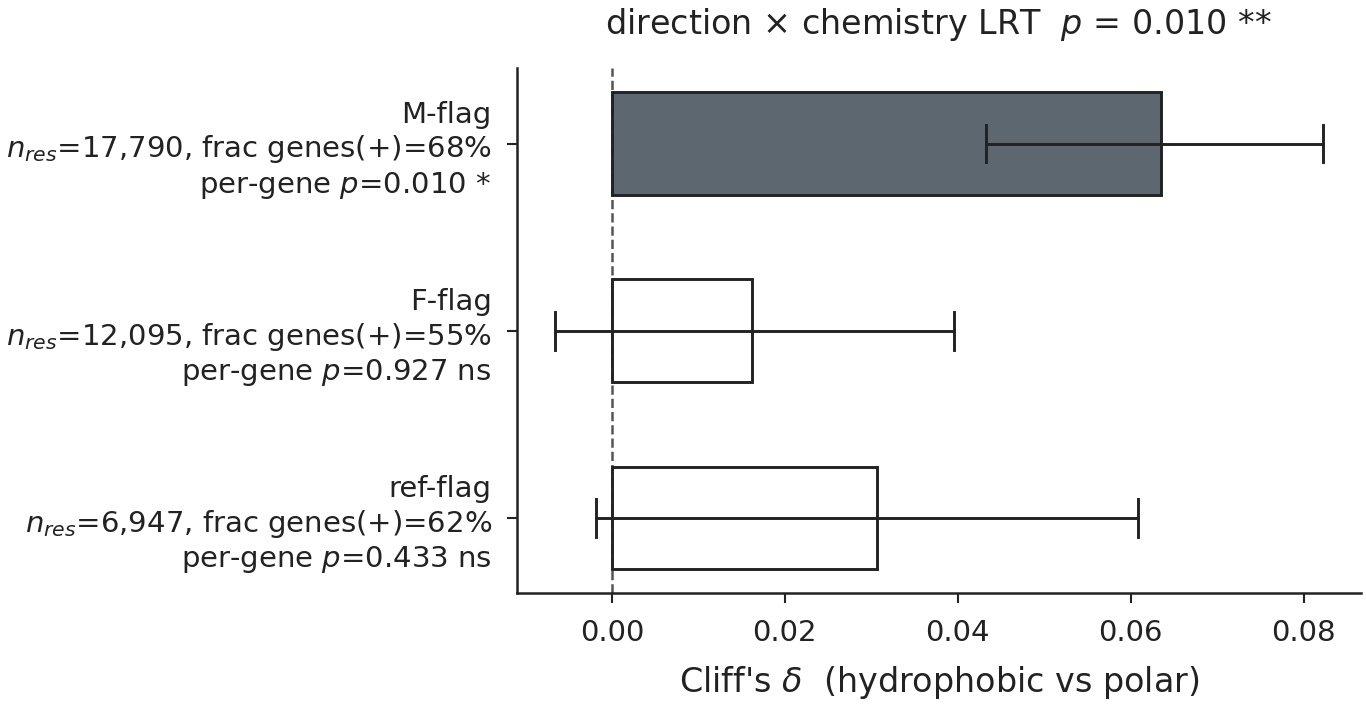
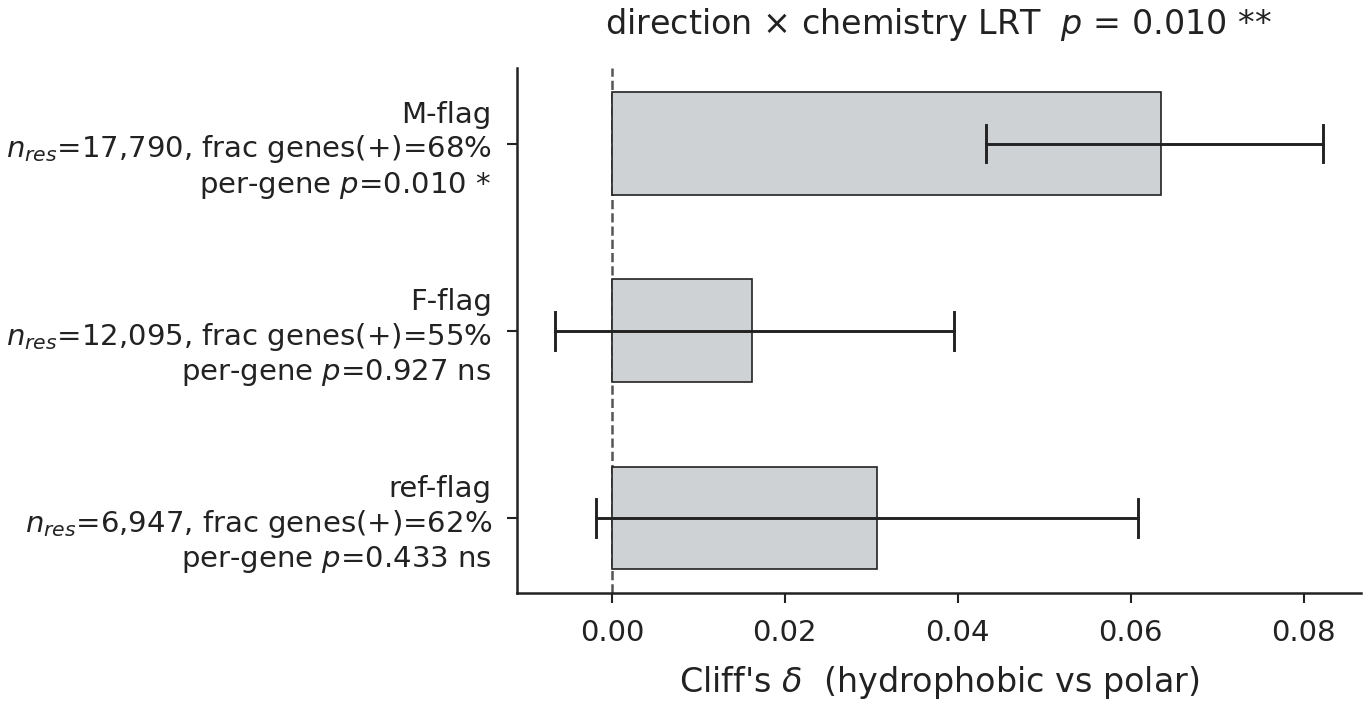
Figures Updated

Changed region(s): [[0.4305, 0.1246, 0.8609, 0.2805], [0.4305, 0.6544, 0.6457, 0.8102], [0.4305, 0.3739, 0.5534, 0.5609]]

diff --git a/notebooks/_summary_figures.py b/notebooks/_summary_figures.py
@@ -1002,9 +1002,10 @@ def render_D1_direction_chemistry(
 ) -> pd.DataFrame:
     """Cliff δ per direction class for hydrophobic vs polar + LRT annotation.
 
-    Three rows: M / F / ref.  Solid INK when per-gene paired Wilcoxon
-    survives at p < 0.05; hollow (white) otherwise.  Direction shading
-    is encoded by the y-axis position, not by color.
+    Three rows: M / F / ref.  Bars share a single lightgray fill — the
+    significance flag (per-gene paired Wilcoxon $p<0.05$) lives entirely
+    in the y-tick label text and the row's stars, so the figure reads
+    strictly monochrome and matches D3's box fill exactly.
     """
     db = direction_breakdown.copy()
     db["dir_idx"] = db["direction"].map({"M": 0, "F": 1, "ref": 2})
@@ -1012,10 +1013,8 @@ def render_D1_direction_chemistry(
 
     fig, ax = plt.subplots(figsize=(4.6, 2.4), constrained_layout=True)
     y = np.arange(len(db))
-    sig = (db["per_gene_p"] < 0.05).fillna(False)
-    fcs = [FILL if s else "white" for s in sig]
-    ax.barh(y, db["cliffs_d"].values, color=fcs, edgecolor=INK,
-            linewidth=0.7, height=0.55, zorder=2)
+    ax.barh(y, db["cliffs_d"].values, color=LITE, edgecolor=INK,
+            linewidth=0.4, height=0.55, zorder=2)
     for i, (lo, hi) in enumerate(zip(db["ci_lo"], db["ci_hi"])):
         if np.isfinite(lo) and np.isfinite(hi):
             ax.plot([lo, hi], [i, i], color=INK, linewidth=0.7, zorder=3)
